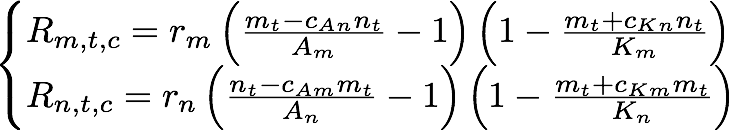
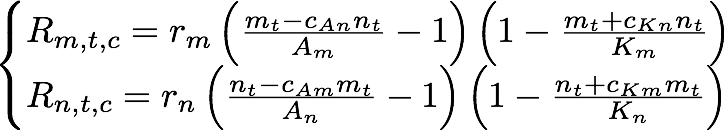
Minor corrections on the equation terms

diff --git a/manuscript/equations/equations.tex b/manuscript/equations/equations.tex
@@ -39,13 +39,13 @@ g=\frac{\left(\frac{0.5(A_m/K_m+1)}{A_m/K_m}-1\right)\left(1-0.5(A_m/K_m+1)\righ
 %Equation A1:
 \begin{cases}
 R_{m,t,c}=r_{m}\left(\frac{m_{t}-c_{An}n_{t}}{A_{m}}-1\right)\left(1-\frac{m_{t}+c_{Kn}n_{t}}{K_{m}}\right) \\
-R_{n,t,c}=r_{n}\left(\frac{n_{t}-c_{Am}m_{t}}{A_{n}}-1\right)\left(1-\frac{m_{t}+c_{Km}m_{t}}{K_{n}}\right)
+R_{n,t,c}=r_{n}\left(\frac{n_{t}-c_{Am}m_{t}}{A_{n}}-1\right)\left(1-\frac{n_{t}+c_{Km}m_{t}}{K_{n}}\right)
 \end{cases}
 
 %Alternative with single competition component (A1b)
 \begin{cases}
 R_{m,t,c}=r_{m}\left(\frac{m_{t}-cn_{t}}{A_{m}}-1\right)\left(1-\frac{m_{t}+cn_{t}}{K_{m}}\right) \\
-R_{n,t,c}=r_{n}\left(\frac{n_{t}+cm_{t}}{A_{n}}-1\right)\left(1-\frac{m_{t}-cm_{t}}{K_{n}}\right)
+R_{n,t,c}=r_{n}\left(\frac{n_{t}+cm_{t}}{A_{n}}-1\right)\left(1-\frac{n_{t}-cm_{t}}{K_{n}}\right)
 \end{cases}
 
 %Equations A2: Stable Node Equilibria (version 1)
@@ -71,4 +71,4 @@ R_{n,t,c}=r_{n}\left(\frac{n_{t}+cm_{t}}{A_{n}}-1\right)\left(1-\frac{m_{t}-cm_{
 \begin{cases}
          m=\frac{cA_n+A_m}{c^2+1}\\
          n=\frac{An-cA_m}{c^2+1}
-\end{cases}
+\end{cases} 
